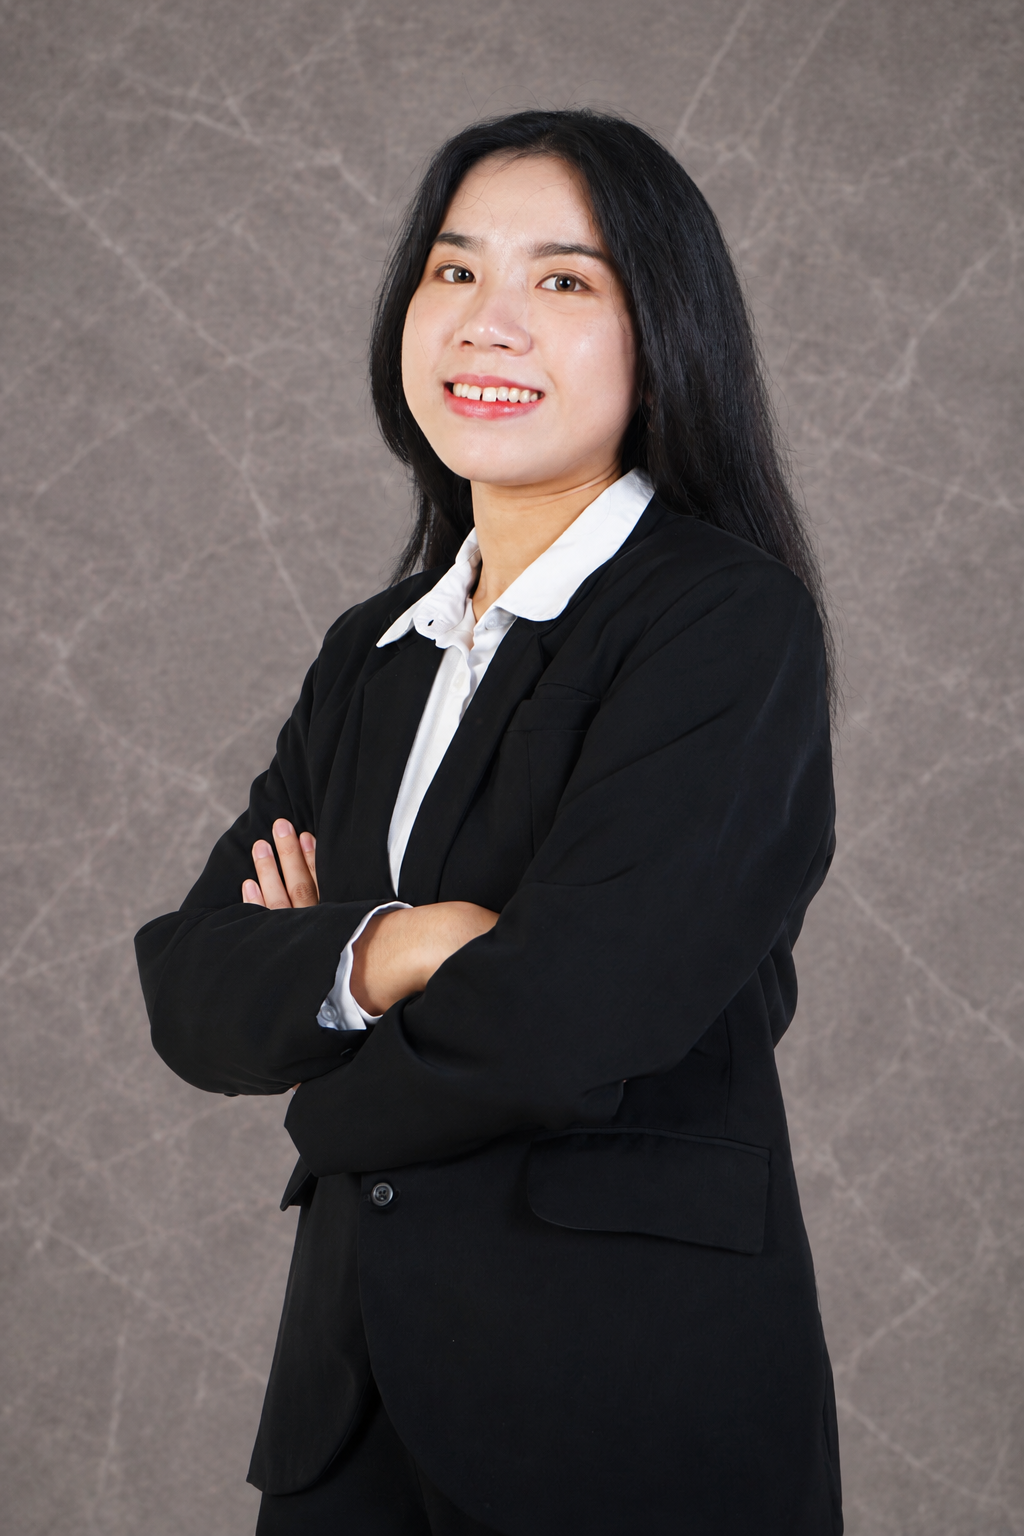
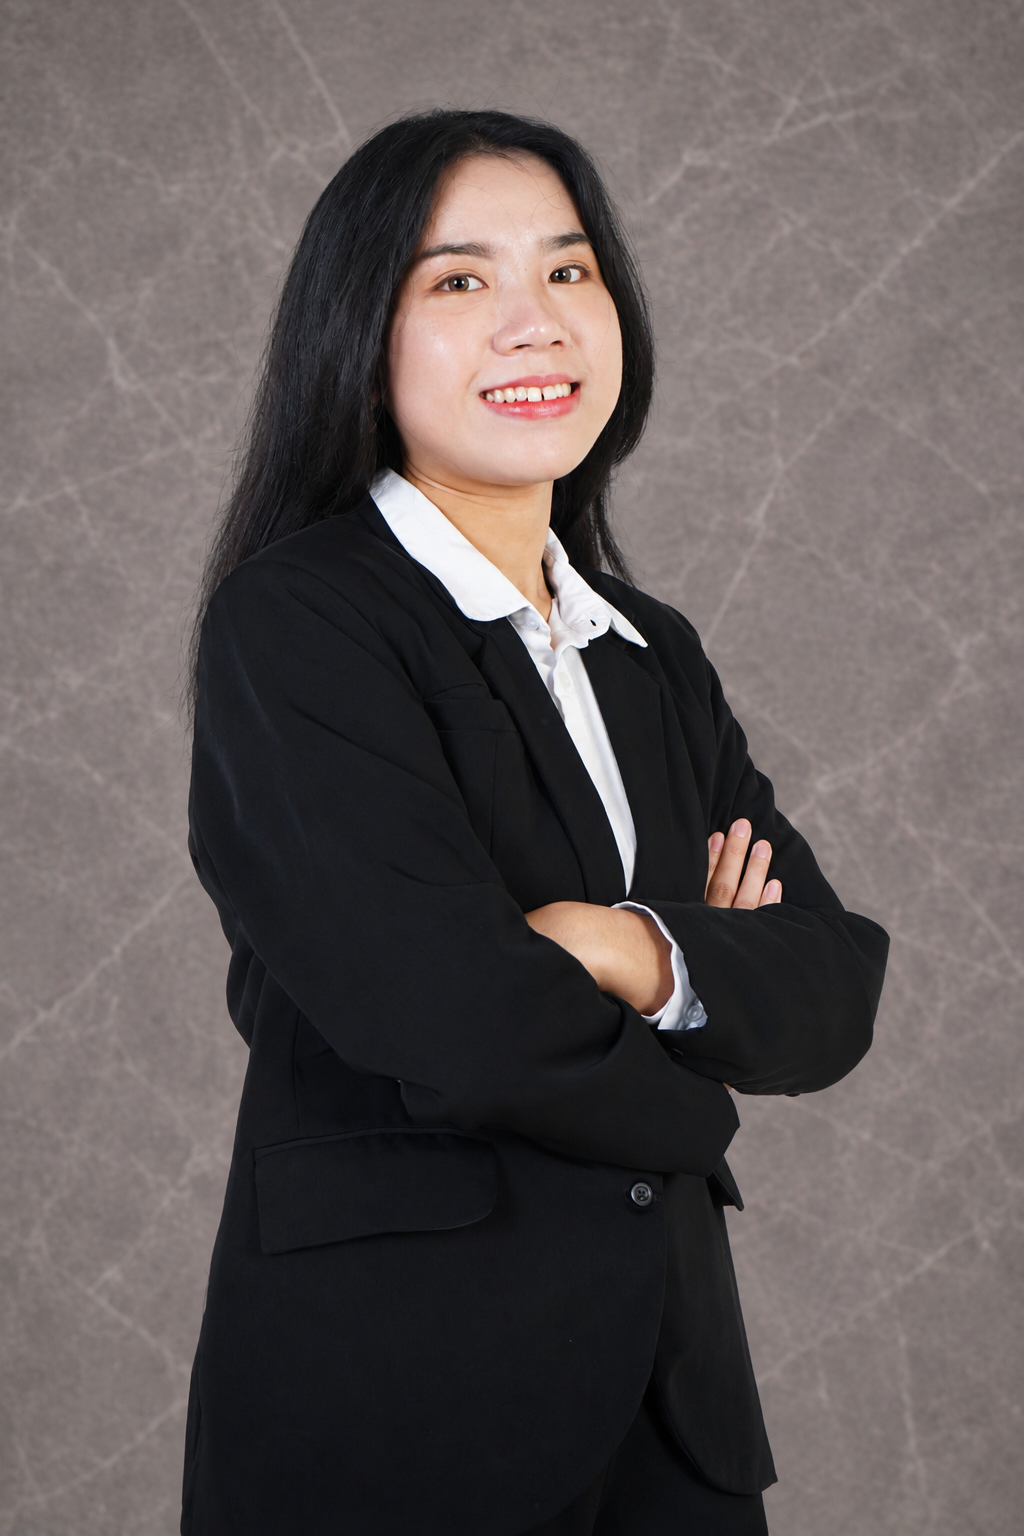
update

Changed region(s): [[0.125, 0.0625, 0.875, 1.0], [0.875, 0.2188, 0.9062, 0.25], [0.0938, 0.2188, 0.125, 0.25]]

diff --git a/src/components/Clients.jsx b/src/components/Clients.jsx
@@ -3,9 +3,12 @@ import { motion } from 'framer-motion';
 
 const clientImagesRaw = import.meta.glob('../assets/client/*.{png,jpeg,jpg,webp,PNG,JPEG,JPG,WEBP}', { eager: true });
 const sortedEntries = Object.entries(clientImagesRaw).sort(([pathA], [pathB]) => {
-  const numA = parseInt(pathA.match(/(\d+)\./)?.[1] || '999', 10);
-  const numB = parseInt(pathB.match(/(\d+)\./)?.[1] || '999', 10);
-  return numA - numB;
+  const matchA = pathA.match(/(\d+)\./);
+  const matchB = pathB.match(/(\d+)\./);
+  const numA = matchA ? parseInt(matchA[1], 10) : 999;
+  const numB = matchB ? parseInt(matchB[1], 10) : 999;
+  if (numA !== numB) return numA - numB;
+  return pathA.localeCompare(pathB);
 });
 const allImages = sortedEntries.map(([, module]) => module.default);
 
@@ -102,6 +105,9 @@ export default function Clients() {
   const desc = 'The Clients need to know the fact to see the issues clearly. We provide best advice based on our comprehensive knowledge to help the client to manage their tax issues.';
   const tagline = 'Ready to join our growing list of trusted partners?';
   const cta = 'Start a Conversation';
+  const whatsappUrl = `https://wa.me/6281286866654?text=${encodeURIComponent(
+    'Halo RPM Consult 👋\nSaya ingin berkonsultasi mengenai kebutuhan bisnis yang sedang saya hadapi.\nMohon dibantu informasi terkait solusi dan layanan yang tersedia dari tim RPM Consult.\nTerima kasih 😊'
+  )}`;
 
   return (
     <section className="py-24 bg-white relative overflow-hidden scroll-mt-20" id="clients">
@@ -218,7 +224,7 @@ export default function Clients() {
             {tagline}
           </p>
           <a
-            href="https://wa.me/6281286866654"
+            href={whatsappUrl}
             target="_blank"
             rel="noopener noreferrer"
             className="flex-none bg-primary text-white font-bold text-sm px-6 py-3 rounded-xl hover:bg-primary-container transition-all duration-300 hover:scale-105 active:scale-95 shadow-md hover:shadow-lg whitespace-nowrap"

diff --git a/src/components/Footer.jsx b/src/components/Footer.jsx
@@ -32,7 +32,7 @@ export default function Footer({ activeView, navigateTo }) {
             </p>
             <div className="text-white/70 text-sm space-y-2 pt-2">
               <p><strong>Email:</strong> <a href="mailto:raka_pm@rpm-consult.com" className="hover:text-white transition-colors">raka_pm@rpm-consult.com</a></p>
-              <p><strong>Phone:</strong> <a href="tel:+6281286866654" className="hover:text-white transition-colors">0812 8686 6654</a></p>
+              <p><strong>Phone / WhatsApp:</strong> <a href={`https://wa.me/6281286866654?text=${encodeURIComponent('Halo RPM Consult 👋\nSaya ingin berkonsultasi mengenai kebutuhan bisnis yang sedang saya hadapi.\nMohon dibantu informasi terkait solusi dan layanan yang tersedia dari tim RPM Consult.\nTerima kasih 😊')}`} target="_blank" rel="noopener noreferrer" className="hover:text-white transition-colors">0812 8686 6654</a></p>
             </div>
           </div>
 

diff --git a/src/components/Contact.jsx b/src/components/Contact.jsx
@@ -158,10 +158,14 @@ export default function Contact() {
                     raka_pm@rpm-consult.com
                   </a>
                   <a
-                    href="tel:+6281286866654"
+                    href={`https://wa.me/6281286866654?text=${encodeURIComponent(
+                      'Halo RPM Consult 👋\nSaya ingin berkonsultasi mengenai kebutuhan bisnis yang sedang saya hadapi.\nMohon dibantu informasi terkait solusi dan layanan yang tersedia dari tim RPM Consult.\nTerima kasih 😊'
+                    )}`}
+                    target="_blank"
+                    rel="noopener noreferrer"
                     className="block text-gray-600 hover:text-primary text-sm transition-colors font-medium"
                   >
-                    0812 8686 6654
+                    0812 8686 6654 (WhatsApp)
                   </a>
                 </div>
               </div>

diff --git a/src/components/Hero.jsx b/src/components/Hero.jsx
@@ -99,7 +99,7 @@ export default function Hero({ navigateTo }) {
             className="font-extrabold text-4xl md:text-6xl lg:text-7xl text-white leading-[1.1] tracking-tight"
           >
             Trusted Tax & <br />
-            <span className="text-primary-fixed block lg:inline-block mt-2 lg:mt-0">Business Solutions</span>
+            <span className="text-primary block lg:inline-block mt-2 lg:mt-0">Business Solutions</span>
           </motion.h1>
 
           {/* Subtitle */}
